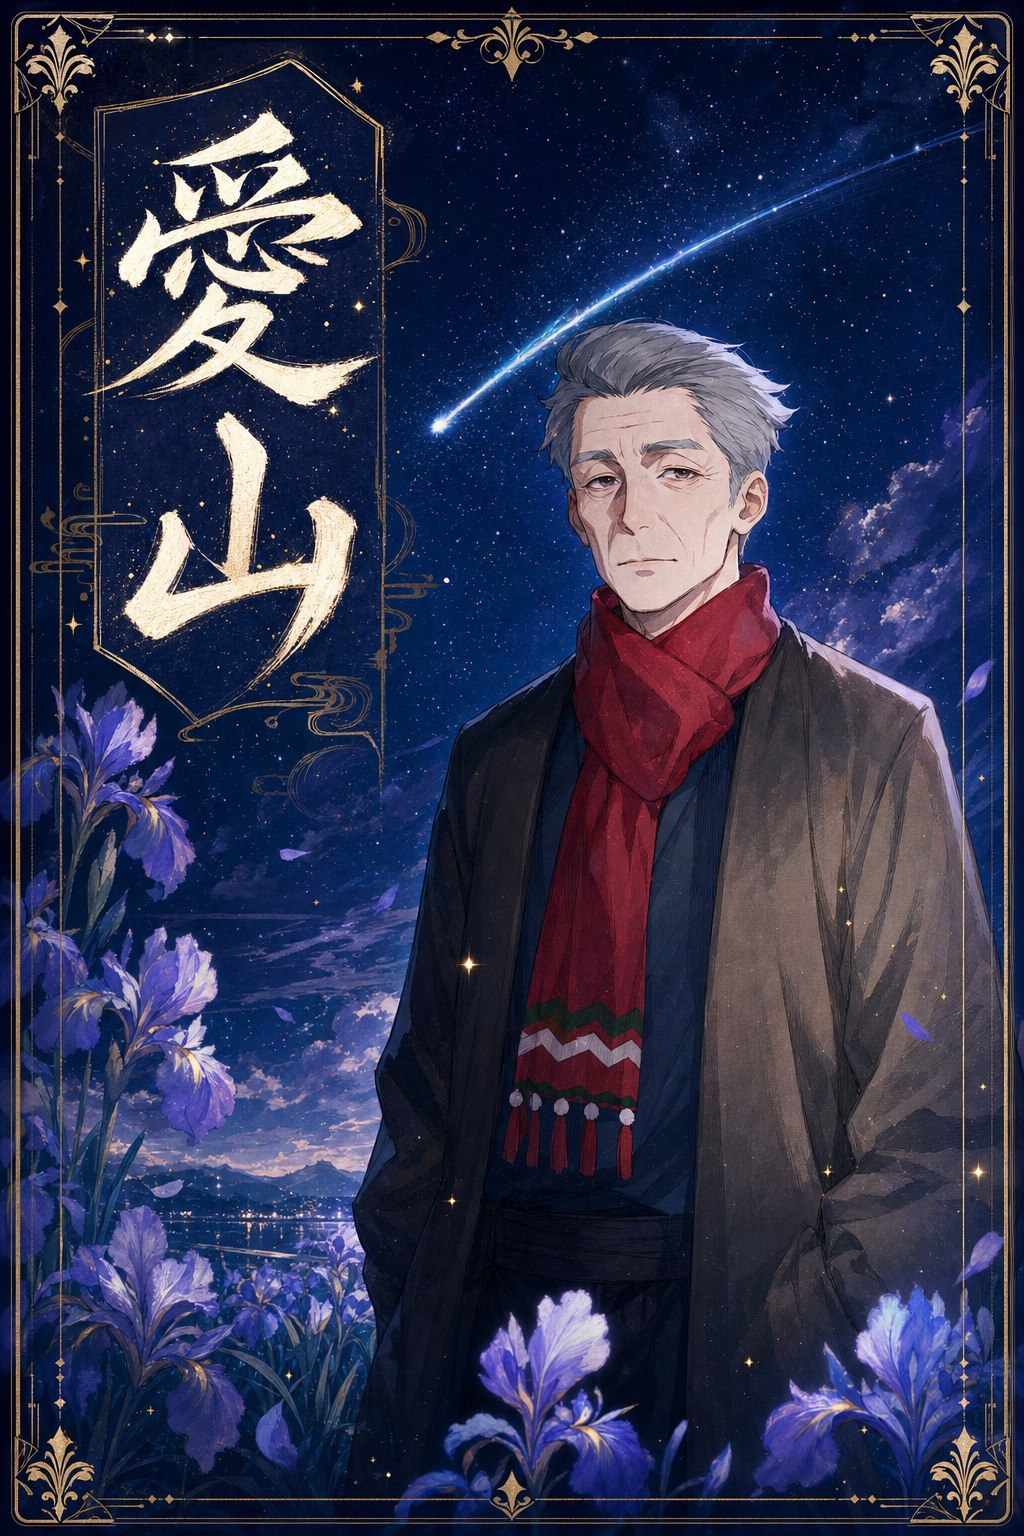
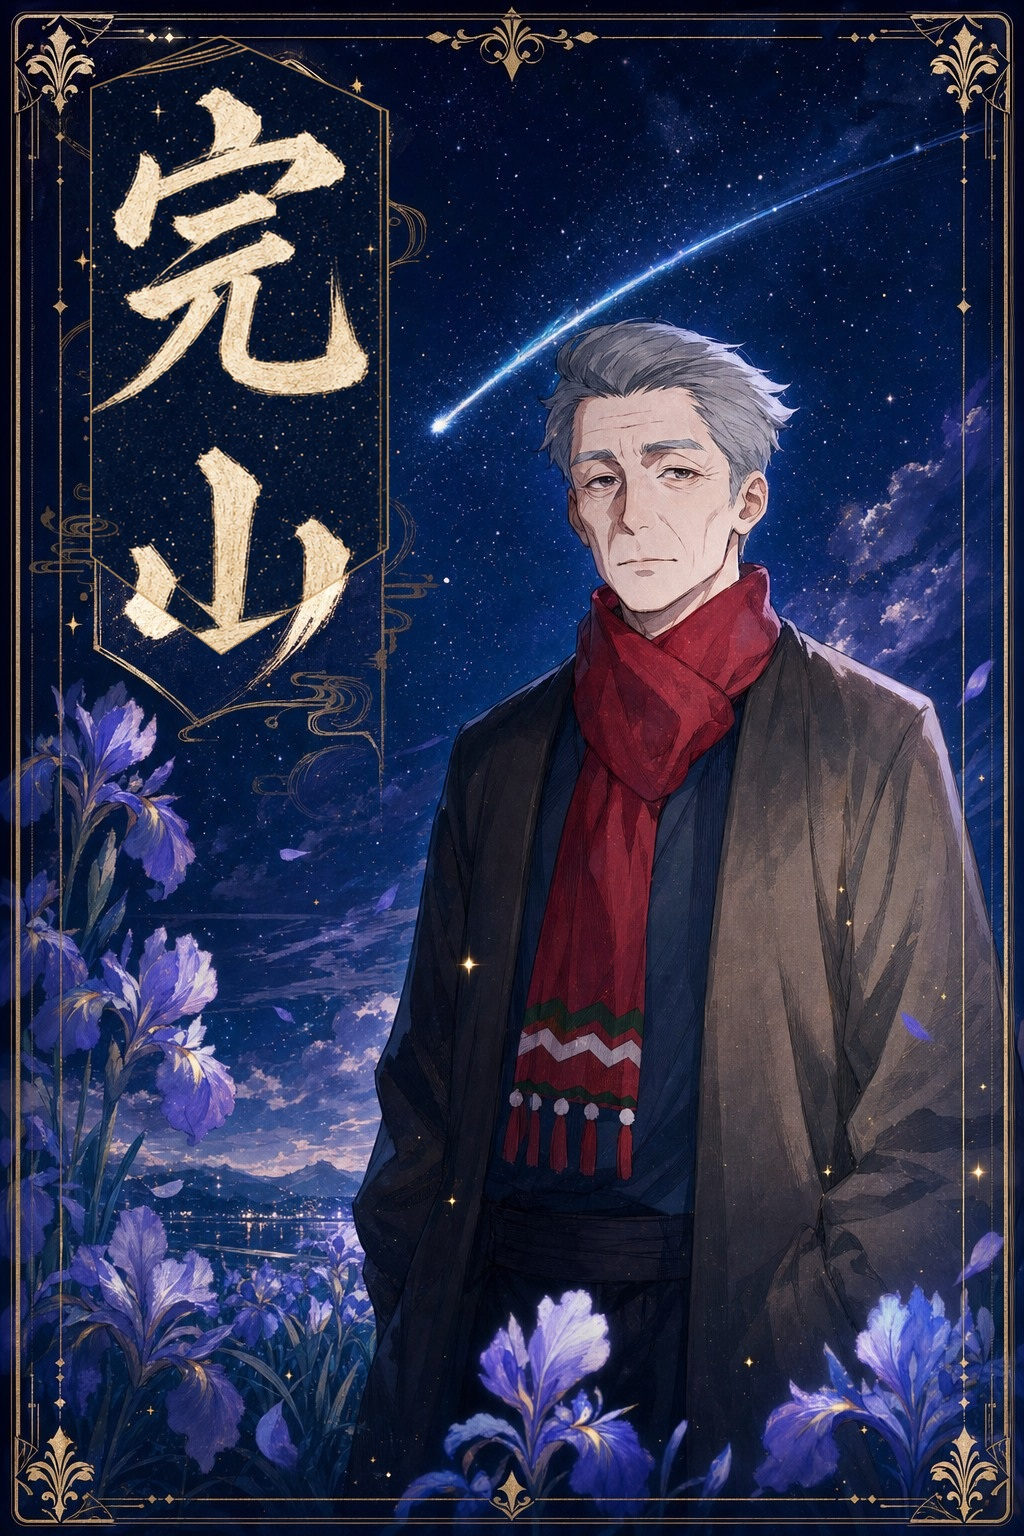
fix: align 完山/菖蒲 names inside comet-yuanwu-quiz + redraw two cards
- page.js: 愛山→完山, 真蒲→菖蒲 (match Notion canonical names)
- Replace aishan-card.jpg and ayame-card.jpg with redrawn versions

Changed region(s): [[0.0625, 0.0312, 0.4062, 0.4375]]

diff --git a/src/app/comet-yuanwu-quiz/page.js b/src/app/comet-yuanwu-quiz/page.js
@@ -27,7 +27,7 @@ const characters = [
   {
     id: 'aishan',
     group: 'male',
-    name: '愛山',
+    name: '完山',
     image: '/comet-yuanwu-quiz/characters/aishan.jpg',
     cardImage: '/comet-yuanwu-quiz/cards/aishan-card.jpg',
     epithet: '長輩型守望者',
@@ -60,7 +60,7 @@ const characters = [
   {
     id: 'ayame',
     group: 'female',
-    name: '真蒲',
+    name: '菖蒲',
     image: '/comet-yuanwu-quiz/characters/ayame.jpg',
     cardImage: '/comet-yuanwu-quiz/cards/ayame-card.jpg',
     epithet: '被愛型閃光者',